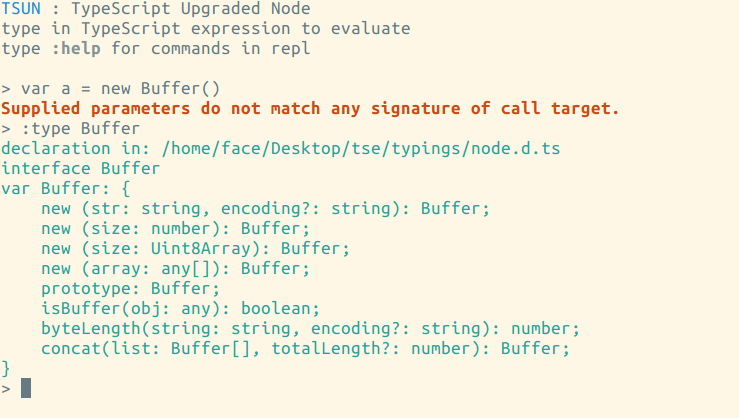
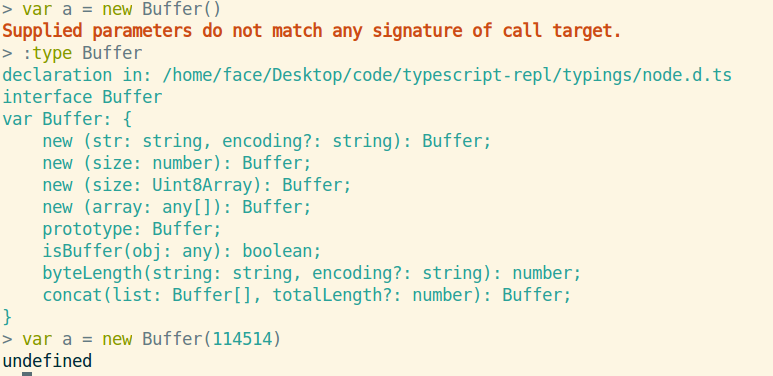
update readme

Changed region(s): [[0.0, 0.0, 0.9648, 1.0]]

diff --git a/README.md b/README.md
@@ -7,6 +7,7 @@ When you pass ts file to TSUN in command line argument, TSUN will automatically 
 Feature:
 ===
 * TS 1.8 support
+* Keyword highlight
 * Tab-completion support
 * Multiple Line Mode
 * Paste Mode
@@ -36,6 +37,8 @@ Custom definition files and JavaScript library support will be added in next rel
 
 ScreenShots:
 ===
+Keyword Highlight
+![Keyword Highlight](https://raw.githubusercontent.com/HerringtonDarkholme/typescript-repl/master/screenshot/color.png)
 
 Tab-completion
 ![Tab Completion](https://raw.githubusercontent.com/HerringtonDarkholme/typescript-repl/master/screenshot/completion.png)
@@ -53,5 +56,7 @@ And there is more for your exploration...
 
 TODO:
 ===
+If you need these, please let me know by making [issues](https://github.com/HerringtonDarkholme/typescript-repl/issues)!
+
 * Add customization
 * Add tsun config
